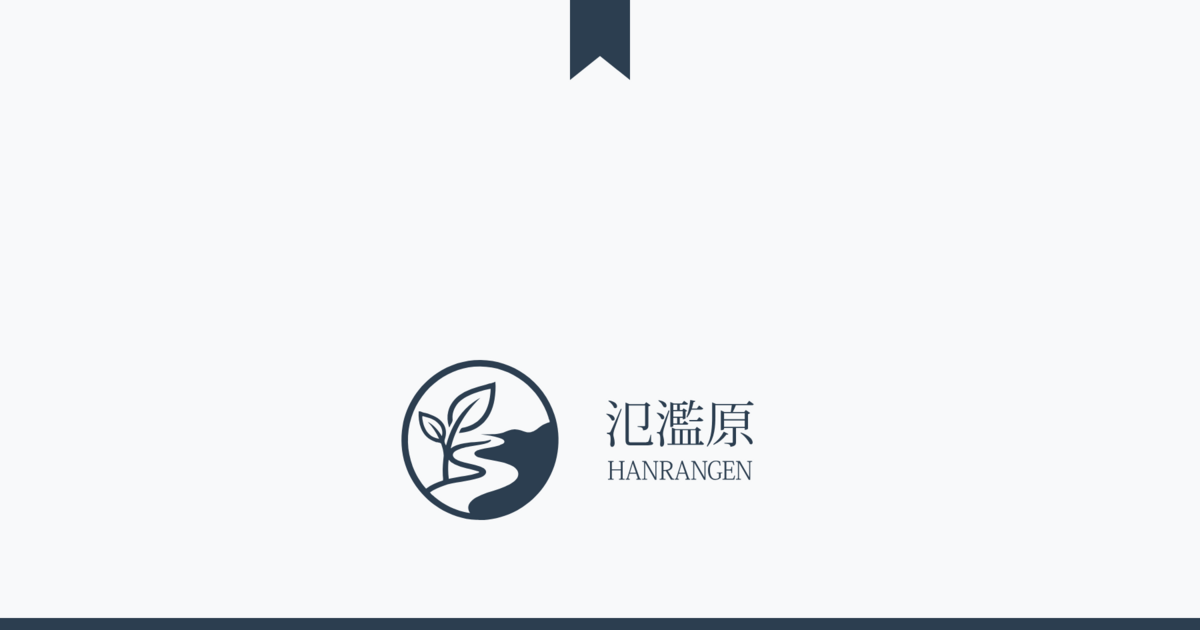
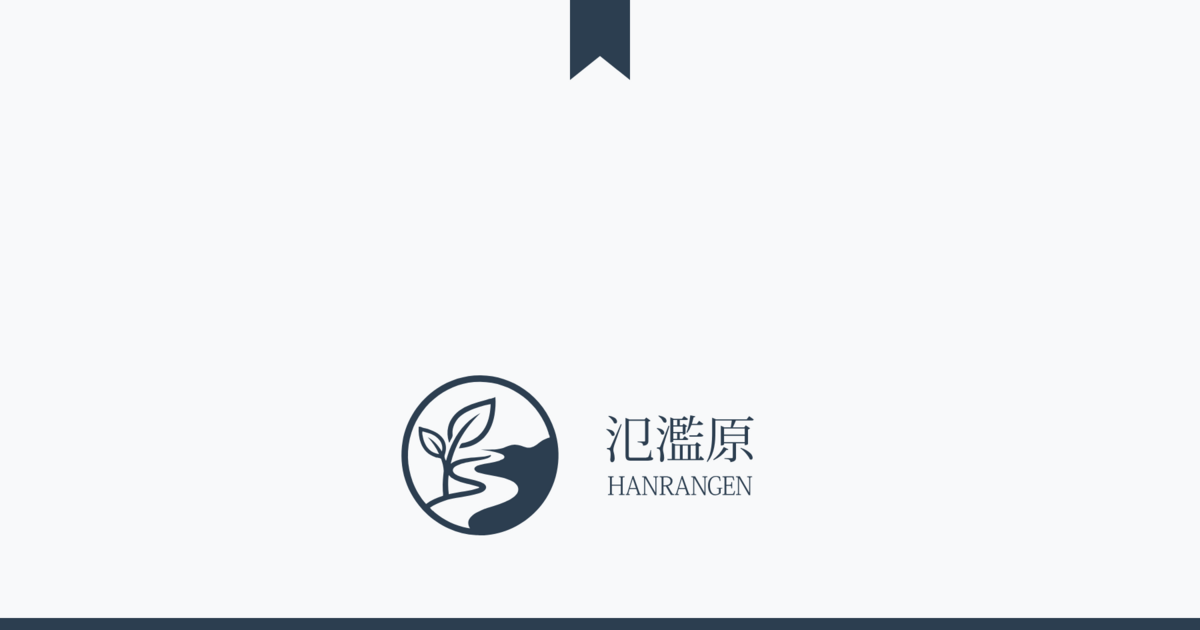
update templ

Changed region(s): [[0.3083, 0.573, 0.4625, 0.8444], [0.4933, 0.6333, 0.6475, 0.7841]]

diff --git a/static/images/ogp_template.html b/static/images/ogp_template.html
@@ -29,7 +29,7 @@
       align-items: center;
       justify-content: center;
       gap: 0;
-      margin-top: 250px;
+      margin-top: 280px;
       transform: scale(0.8);
     }
 
